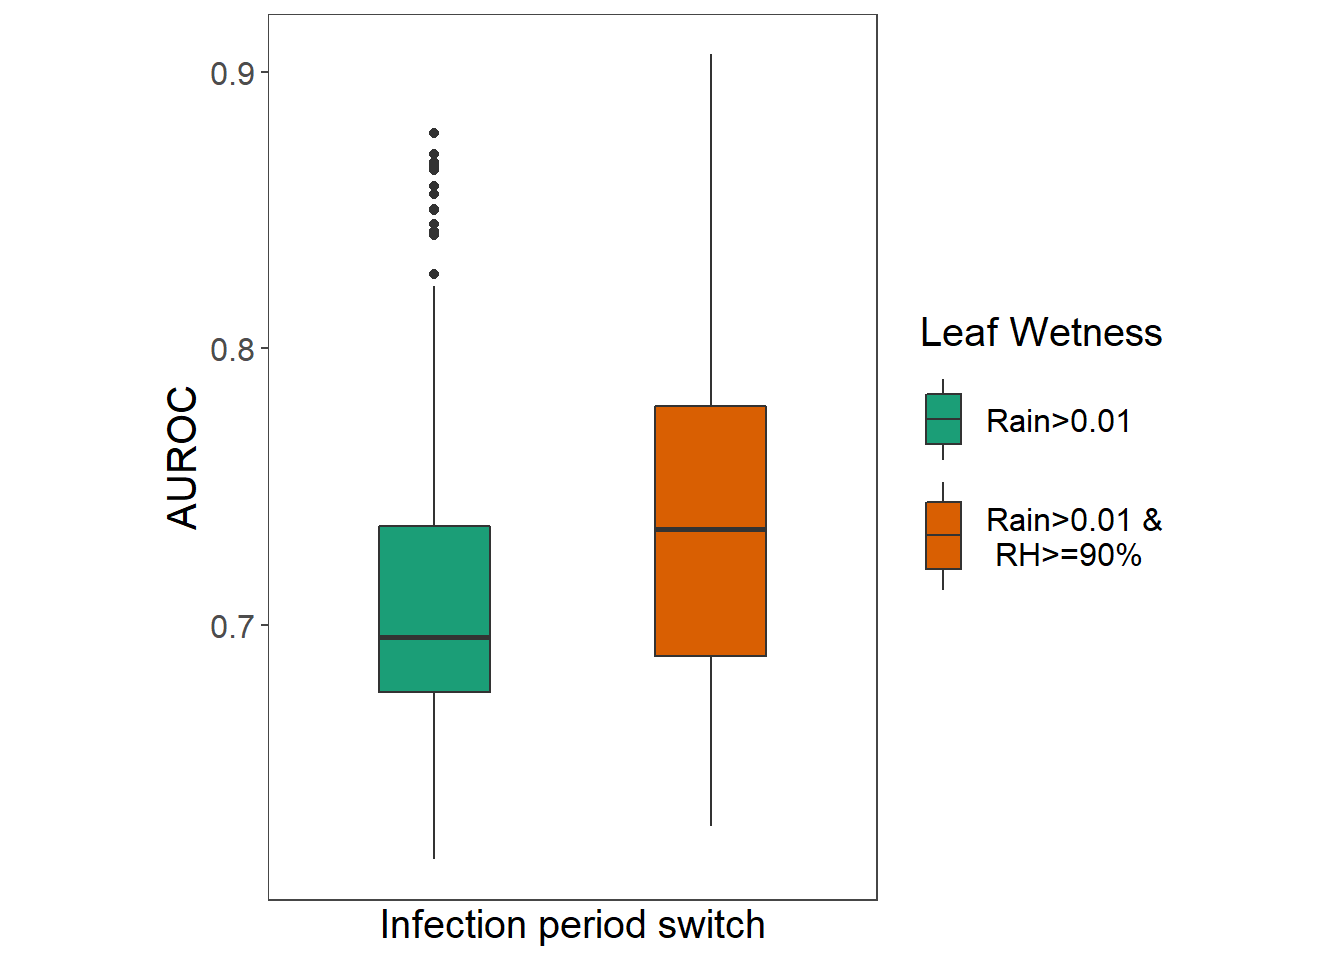
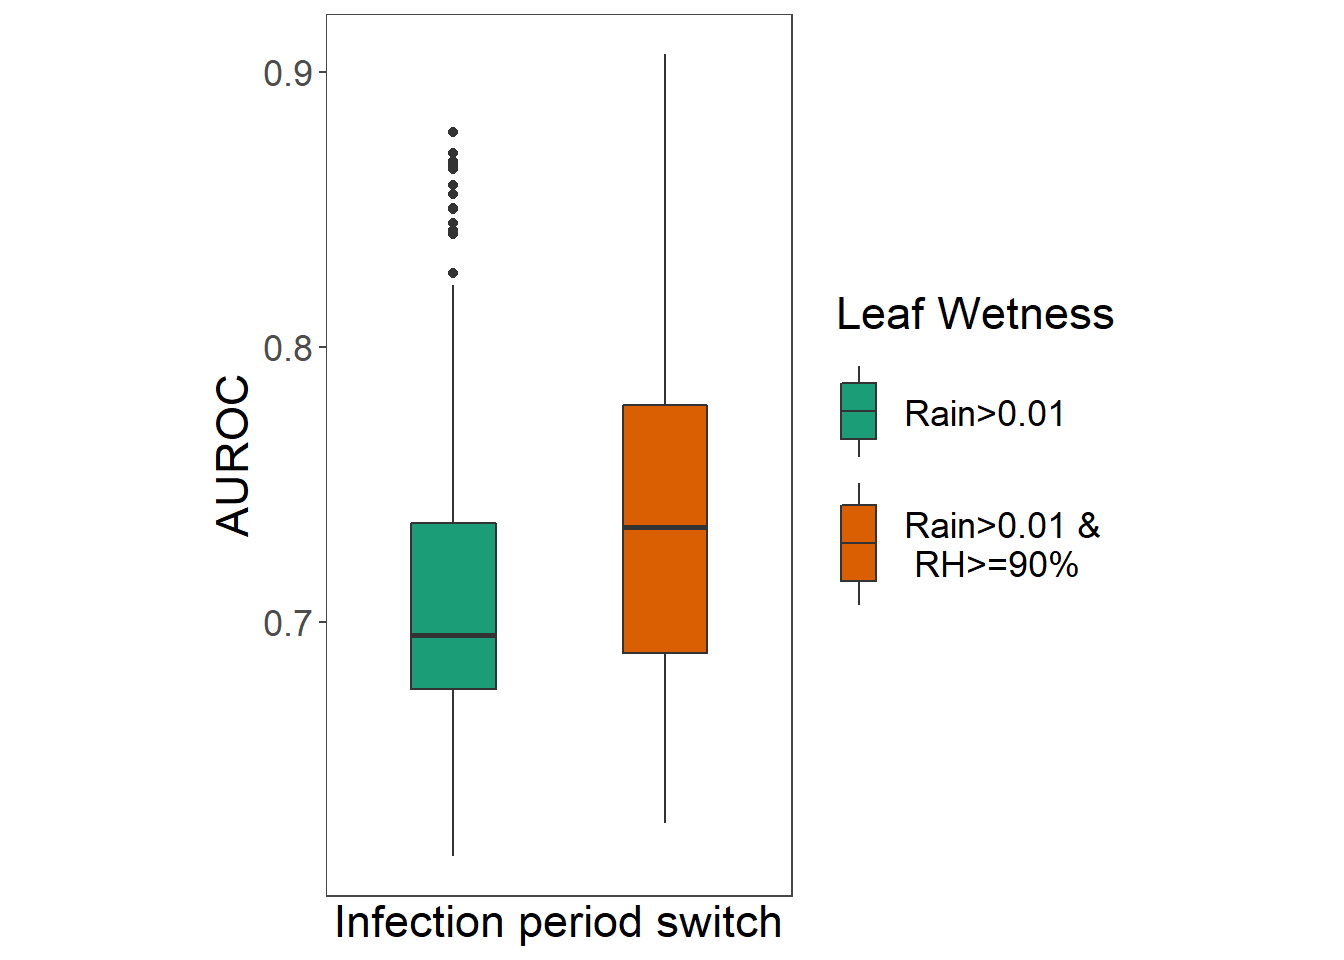
manuscript revisions

diff --git a/docs/Results1.html b/docs/Results1.html
@@ -623,8 +623,8 @@ w.test</code></pre>
   xlab(&quot;Infection period switch&quot;) +
   ylab(&quot;AUROC&quot;) +
   theme_article() +
-  theme(text = element_text(size=15))+
-  coord_equal(10 / 1)</code></pre>
+  theme(text = element_text(size=17))+
+  coord_equal(13 / 1)</code></pre>
 <p><img src="images/plot_lw_estim-1.png" width="672" /></p>
 <pre class="r"><code>auc_data &lt;-
   auc_data %&gt;%
